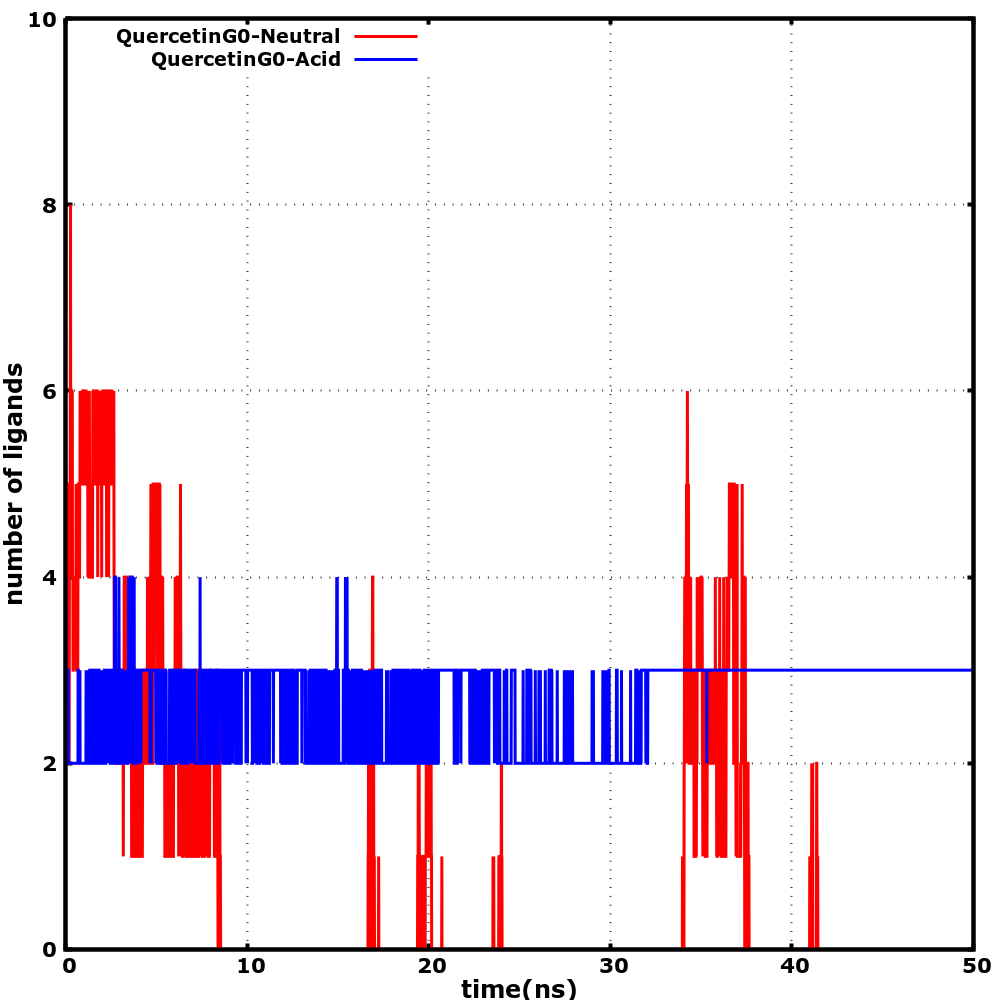
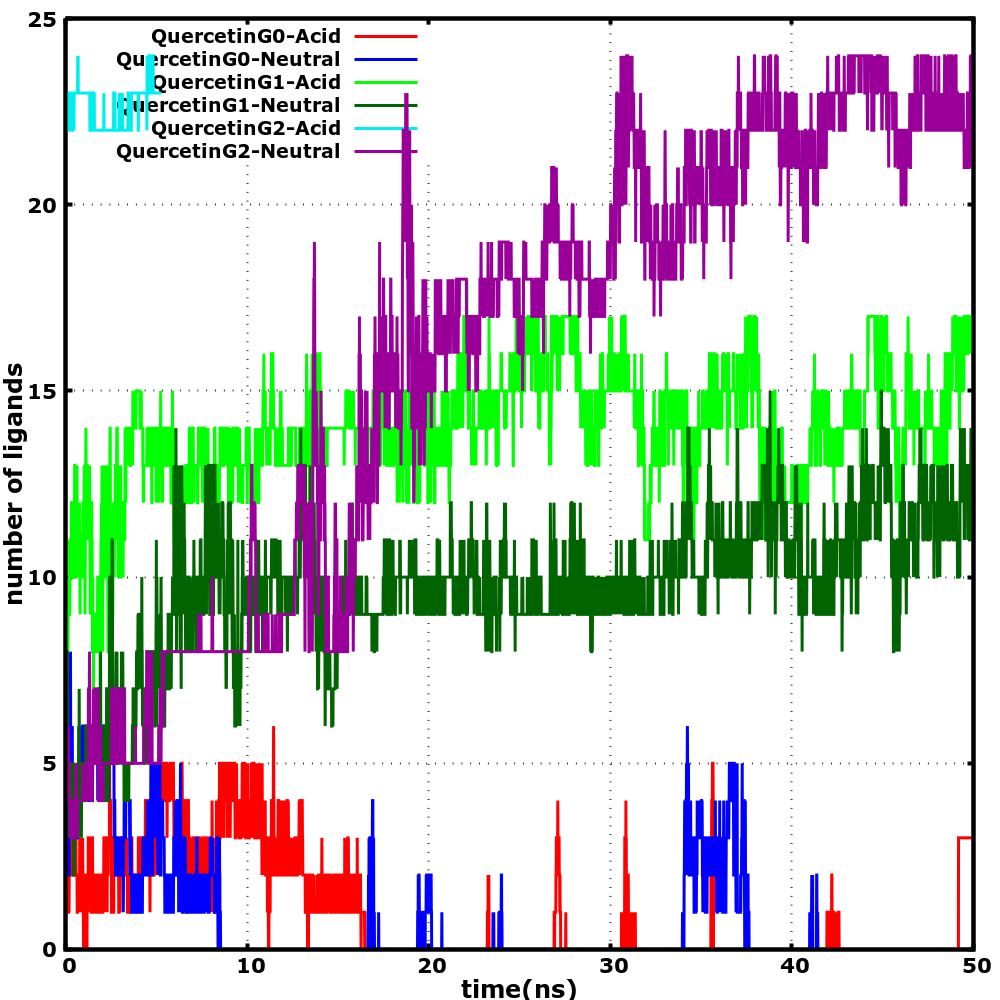
update

diff --git a/validation/analysis.py b/validation/analysis.py
@@ -26,7 +26,7 @@ def index(ligand_case):
 
 def calculate_gyrate(outputName="gyrate.xvg", ff=0, lf=0):
     os.system("echo Dendrimer | gmx gyrate  -s md.tpr \
-                                            -f md.xtc \
+                                            -f md.trr \
                                             -n index.ndx \
                                             -b {ff} \
                                             -e {lf} \
@@ -183,7 +183,7 @@ def calcMoi(select, currentFrame):
 
 
 def calculate_delta(outputName="output.gro", ff=0, lf=0):
-    os.system("echo Dendrimer | gmx trjconv -f md.xtc \
+    os.system("echo Dendrimer | gmx trjconv -f md.trr \
                                             -s md.tpr \
                                             -b {ff} \
                                             -e {lf} \
@@ -266,7 +266,7 @@ def calculate_delta(outputName="output.gro", ff=0, lf=0):
     
 
 def rdf(outputName="rdf.xvg", ff=0, lf=0):
-    os.system("gmx rdf  -f md.xtc \
+    os.system("gmx rdf  -f md.trr \
                         -s md.tpr \
                         -n index.ndx \
                         -b {ff} \
@@ -280,8 +280,8 @@ def rdf(outputName="rdf.xvg", ff=0, lf=0):
     # Plot rdf
 
 
-def distance(outputName="distances.xvg", ff=0, lf=0, Rgm=0):
-    os.system("gmx pairdist -f md.xtc \
+def calculate_distance(outputName="distances.xvg", ff=0, lf=0, Rgm=0):
+    os.system("gmx pairdist -f md.trr \
                             -s md.tpr \
                             -n index.ndx \
                             -b {ff} \
@@ -311,6 +311,29 @@ def distance(outputName="distances.xvg", ff=0, lf=0, Rgm=0):
 
     return timeArray, ligands_n
 
+def calculate_ligand(outputName="ligands.xvg", timeArray=[], ligands_n=[], ff=0, lt=0):
+    lig_count = 0
+    lig_sum   = 0
+    lig_sum2  = 0
+    lig       = [0,0]
+
+    file = open(outputName,'w')
+    for t in range(len(timeArray)):
+        file.write("{0:10.3f} {1:10d} \n".format(timeArray[t], ligands_n[t]))
+        if timeArray[t] < ff:
+            continue
+        elif timeArray[t] > lt:
+            continue
+        else:
+            lig_count  += 1
+            lig_sum  += ligands_n[t]
+            lig_sum2 += ligands_n[t] * ligands_n[t]
+    file.close()
+
+    lig[0] = lig_sum/lig_count
+    lig[1] = ((lig_sum2/lig_count) - (lig_sum/lig_count)**2 )**0.5
+
+    return lig
 
 def start_gnu(file):
     file.write("set terminal pngcairo size 1000,1000 enhanced font 'Verdana-Bold,10'\n")
@@ -373,7 +396,7 @@ def start_gnu(file):
     file.write('\n')
     file.write('set ylabel "number of ligands" font @labelFont\n')
     file.write('set ytics font @ticsFont\n')
-    file.write('set yrange [0:20]\n')
+    file.write('#set yrange [0:20]\n')
     file.write('#set title "# of ligands" font @titleFont\n')
     file.write('#set title "number of ligands within the dendrimer" font @titleFont\n')
     file.write('plot')
@@ -389,7 +412,7 @@ def clean(list):
 
 def main():
     startTime=time.time()
-    ff=0
+    ff=40000
     lf=50000
     root="/home/mayk/Documents/Labmmol/Dendrimer/dendriDocker/validation"
 
@@ -403,7 +426,7 @@ def main():
     cases={
         # "5-Fluorouracil" : [4, 5],
         # "Carbamazepine" : [4],
-        "Quercetin" : [0],
+        "Quercetin" : [0, 1],
         # "Methotrexate" : [4],
         # "SilybinA" : [2, 3, 4],
     }
@@ -418,12 +441,15 @@ def main():
     casesCount=0
     for case in cases:
         for G in cases[case]:
+
+            #Selecting systems
             if case == "Carbamazepine":
                 systems=["Acid/F_100", "Acid/F_500", "Neutral"]
             elif case == "Quercetin":
-                systems=["Neutral", "Acid"]
+                systems=["Acid", "Neutral"]
             else:
                 systems=["Acid", "Neutral"]
+            
             for pH in systems:
                 
                 current_case=root+"/{0}/G{1}/{2}/tmp".format(case, G, pH)
@@ -443,23 +469,27 @@ def main():
                 os.system("mkdir -p {}/proc".format(current_case))
                 index(ligand[case])
 
-                Rgm, Rgxm, Rgym, Rgzm = calculate_gyrate(current_case+"/gyrate_{0}G{1}_{2}.xvg".format(case, G, pH), ff, lf)
                 res.write("\n<------------>{0}G{1}_{2}<------------>\n".format(case, G, pH))
+                
+                # Calculate Rg
+                Rgm, Rgxm, Rgym, Rgzm = calculate_gyrate(current_case+"/gyrate_{0}G{1}_{2}.xvg".format(case, G, pH), ff, lf)
                 res.write("\nRg: {0:8.4f} +/- {1:8.4f}\n".format(Rgm[0], Rgm[1]))
 
+                # Calculate asphericity
                 delta = calculate_delta(current_case+"/dendCoord_{0}G{1}_{2}.gro".format(case, G, pH), ff, lf)
                 res.write("\ndelta: {0:8.4f} +/- {1:8.4f}\n".format(delta[0], delta[1]))
                 
+                # Calculate RDF
                 rdf(current_case+"/rdf_{0}G{1}_{2}.xvg".format(case, G, pH), ff, lf)
                 plot.write('"{0}/proc/rdf_{1}G{2}_{3}.xvg" using 1:2 title "{1}G{2}-{3}" with lines ls {4}, \\\n'.format(current_case, case, G, pH, casesCount))
                 
-                timeArray, ligands_n = distance(current_case+"/distances_{0}G{1}_{2}.xvg".format(case, G, pH), ff, lf, Rgm[0]+2*Rgm[1])
-                file = open("ligands_{0}G{1}_{2}.xvg".format(case, G, pH),'w')
-                for t in range(len(timeArray)):
-                    file.write("{0:10.3f} {1:10d} \n".format(timeArray[t], ligands_n[t]))
-                file.close()
-                plot.write('"{0}/proc/ligands_{1}G{2}_{3}.xvg" using ($1/1000):2 title "{1}G{2}-{3}" with lines ls {4}, \\\n'.format(current_case, case, G, pH, casesCount))
+                # Calculate ligands number
+                timeArray, ligands_n = calculate_distance(current_case+"/distances_{0}G{1}_{2}.xvg".format(case, G, pH), 0, lf, Rgm[0]+2*Rgm[1])
+                lig = calculate_ligand(current_case+"/ligands_{0}G{1}_{2}.xvg".format(case, G, pH), timeArray, ligands_n, ff, lf)
+                res.write("\nlotation: {0:8.4f} +/- {1:8.4f}\n".format(lig[0], lig[1]))
+                plot.write('"{0}/proc/ligands_{1}G{2}_{3}.xvg" using ($1/1000):2 title "{1}G{2}-{3}" with lines ls {4}, \\\n'.format(current_case, case, G, pH, casesCount))                
 
+                # Move files
                 os.system("mv gyrate_{0}G{1}_{2}.xvg rdf_{0}G{1}_{2}.xvg distances_{0}G{1}_{2}.xvg ligands_{0}G{1}_{2}.xvg proc/.".format(case, G, pH))
                 clean(["\#*"])
 
